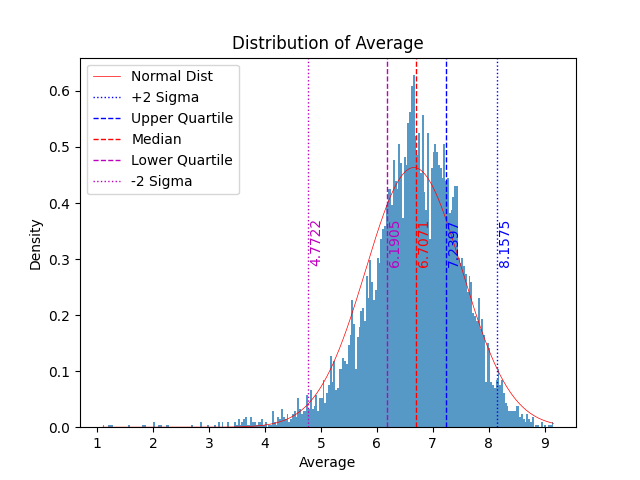
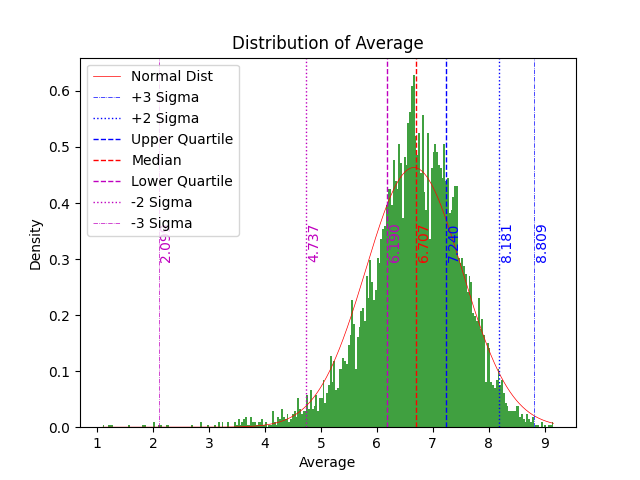
Feat: Vote Dist

diff --git a/stat.py b/stat.py
@@ -24,44 +24,62 @@ Task:
 
 ifile = "data\\sub.csv"
 pre = "data\\stat\\"
+_P3S = norm.cdf(3) * 100 # 99.865
+_P2S = norm.cdf(2) * 100 # 97.725
+_P1S = norm.cdf(1) * 100 # 84.135
+_N1S = norm.cdf(-1) * 100 # 15.865
+_N2S = norm.cdf(-2) * 100 # 2.275
+_N3S = norm.cdf(-3) * 100 # 0.135
 
 def analyze(s, name, fname, n, ofile):
     '''
+    params:
     s - series to be analyzed
     name - name of the series
     fname - plt file name (including extension)
     n - number of entries
     ofile - output CSV file object
     '''
-    mean, std, hi, uq, med, lq, lo, p2s, n2s = \
+    mean, std, hi, uq, med, lq, lo, p2s, n2s, p3s, n3s = \
         np.mean(s), np.std(s), np.max(s), np.percentile(s, 75), \
         np.median(s), np.percentile(s, 25), np.min(s), \
-        np.percentile(s, 97.5), np.percentile(s, 2.5)
+        np.percentile(s, _P2S), np.percentile(s, _N2S), \
+        np.percentile(s, _P3S), np.percentile(s, _N3S)
     ofile.write("Average of %s,%.4f\n" % (name, mean))
     ofile.write("Standard Deviation of %s,%.4f\n" % (name, std))
-    ofile.write("Maximum of %s,%.4f\n" % (name, hi))
-    ofile.write("+2sigma of %s,%.4f\n" % (name, p2s))
-    ofile.write("Upper Quartile of %s,%.4f\n" % (name, uq))
-    ofile.write("Median of %s,%.4f\n" % (name, med))
-    ofile.write("Lower Quartile of %s,%.4f\n" % (name, lq))
-    ofile.write("-2sigma of %s,%.4f\n" % (name, n2s))
-    ofile.write("Minimum of %s,%.4f\n" % (name, lo))
-    plt.hist(s, bins=250, density=True, alpha=.75)
+    ofile.write("95%%CI,%.4f,%.4f\n" % (mean - 2 * std, mean + 2 * std))
+    ofile.write("Extremes,%.4f,%.4f\n" % (lo, hi))
+    ofile.write("±3 Sigma,%.4f,%.4f\n" % (p3s, n3s))
+    ofile.write("1%%-99%%,%.4f,%.4f\n" % (np.percentile(s, 1), np.percentile(s, 99)))
+    ofile.write("±2 Sigma,%.4f,%.4f\n" % (p2s, n2s))
+    ofile.write("5%%-95%%,%.4f,%.4f\n" % (np.percentile(s, 5), np.percentile(s, 95)))
+    ofile.write("10%%-90%%,%.4f,%.4f\n" % (np.percentile(s, 10), np.percentile(s, 90)))
+    ofile.write("15%%-85%%,%.4f,%.4f\n" % (np.percentile(s, 15), np.percentile(s, 85)))
+    ofile.write("20%%-80%%,%.4f,%.4f\n" % (np.percentile(s, 20), np.percentile(s, 80)))
+    ofile.write("Quartiles,%.4f,%.4f\n" % (lq, uq))
+    ofile.write("30%%-70%%,%.4f,%.4f\n" % (np.percentile(s, 30), np.percentile(s, 70)))
+    ofile.write("40%%-60%%,%.4f,%.4f\n" % (np.percentile(s, 40), np.percentile(s, 60)))
+    ofile.write("Median,%.4f\n" % med)
+    plt.hist(s, bins=250, density=True, alpha=.75, color='g')
     x = np.linspace(lo, hi, 1000)
     plt.plot(x, norm.pdf(x, mean, std), color='r', linewidth=.5)
+    plt.axvline(p3s, color='b', linestyle='dashdot', linewidth=.5)
     plt.axvline(p2s, color='b', linestyle='dotted', linewidth=1)
     plt.axvline(uq, color='b', linestyle='dashed', linewidth=1)
     plt.axvline(med, color='r', linestyle='dashed', linewidth=1)
     plt.axvline(lq, color='m', linestyle='dashed', linewidth=1)
     plt.axvline(n2s, color='m', linestyle='dotted', linewidth=1)
-    x_diff = (hi - lo) / 500
-    mid_y = plt.ylim()[1] / 2
-    plt.text(p2s + x_diff, mid_y, f"{p2s:.4f}", rotation=90, va='center', color='b')
-    plt.text(uq + x_diff, mid_y, f"{uq:.4f}", rotation=90, va='center', color='b')
-    plt.text(med + x_diff, mid_y, f"{med:.4f}", rotation=90, va='center', color='r')
-    plt.text(lq + x_diff, mid_y, f"{lq:.4f}", rotation=90, va='center', color='m')
-    plt.text(n2s + x_diff, mid_y, f"{n2s:.4f}", rotation=90, va='center', color='m')
-    plt.legend(["Normal Dist", "+2 Sigma", "Upper Quartile", "Median", "Lower Quartile", "-2 Sigma"])
+    plt.axvline(n3s, color='m', linestyle='dashdot', linewidth=.5)
+    x_diff = (hi - lo) / 500 # absolute dx: 1/500 of the plot width
+    mid_y = plt.ylim()[1] / 2 # absolute y: middle of the plot height
+    plt.text(p3s + x_diff, mid_y, f"{p3s:.3f}", rotation=90, va='center', color='b')
+    plt.text(p2s + x_diff, mid_y, f"{p2s:.3f}", rotation=90, va='center', color='b')
+    plt.text(uq + x_diff, mid_y, f"{uq:.3f}", rotation=90, va='center', color='b')
+    plt.text(med + x_diff, mid_y, f"{med:.3f}", rotation=90, va='center', color='r')
+    plt.text(lq + x_diff, mid_y, f"{lq:.3f}", rotation=90, va='center', color='m')
+    plt.text(n2s + x_diff, mid_y, f"{n2s:.3f}", rotation=90, va='center', color='m')
+    plt.text(n3s + x_diff, mid_y, f"{n3s:.3f}", rotation=90, va='center', color='m')
+    plt.legend(["Normal Dist", "+3 Sigma", "+2 Sigma", "Upper Quartile", "Median", "Lower Quartile", "-2 Sigma", "-3 Sigma"])
     plt.title("Distribution of %s" % name)
     plt.xlabel(name)
     plt.ylabel("Density")
@@ -70,14 +88,63 @@ def analyze(s, name, fname, n, ofile):
     ofile.write("\n")
 
 def analyze_exp(s, name, fname, n, ofile):
-    pass
+    '''
+    basically same as analyze(), but exponential distribution-like
+    params:
+    s - series to be analyzed
+    name - name of the series
+    fname - plt file name (including extension)
+    n - number of entries
+    ofile - output CSV file object
+    '''
+    mean, std, hi, uq, med, lq, lo, p2s, n2s, p3s, n3s = \
+        np.mean(s), np.std(s), np.max(s), np.percentile(s, 75), \
+        np.median(s), np.percentile(s, 25), np.min(s), \
+        np.percentile(s, _P2S), np.percentile(s, _N2S), \
+        np.percentile(s, _P3S), np.percentile(s, _N3S)
+    ofile.write("Average of %s,%.4f\n" % (name, mean))
+    ofile.write("Standard Deviation of %s,%.4f\n" % (name, std))
+    ofile.write("Extremes,%.0f,%.0f\n" % (lo, hi))
+    ofile.write("±3 Sigma,%.0f,%.0f\n" % (p3s, n3s))
+    ofile.write("1%%-99%%,%.0f,%.0f\n" % (np.percentile(s, 1), np.percentile(s, 99)))
+    ofile.write("±2 Sigma,%.0f,%.0f\n" % (p2s, n2s))
+    ofile.write("5%%-95%%,%.0f,%.0f\n" % (np.percentile(s, 5), np.percentile(s, 95)))
+    ofile.write("10%%-90%%,%.0f,%.0f\n" % (np.percentile(s, 10), np.percentile(s, 90)))
+    ofile.write("15%%-85%%,%.0f,%.0f\n" % (np.percentile(s, 15), np.percentile(s, 85)))
+    ofile.write("20%%-80%%,%.0f,%.0f\n" % (np.percentile(s, 20), np.percentile(s, 80)))
+    ofile.write("Quartiles,%.0f,%.0f\n" % (lq, uq))
+    ofile.write("30%%-70%%,%.0f,%.0f\n" % (np.percentile(s, 30), np.percentile(s, 70)))
+    ofile.write("40%%-60%%,%.0f,%.0f\n" % (np.percentile(s, 40), np.percentile(s, 60)))
+    ofile.write("Median,%.0f\n" % med)
+    plt.hist(s, bins=500, density=True, alpha=.75, color='g')
+    plt.yscale('log') # x-log(y)
+    plt.axvline(p3s, color='b', linestyle='dashdot', linewidth=.5)
+    plt.axvline(p2s, color='b', linestyle='dotted', linewidth=1)
+    plt.axvline(uq, color='b', linestyle='dashed', linewidth=1)
+    plt.axvline(med, color='r', linestyle='dashed', linewidth=1)
+    plt.axvline(lq, color='m', linestyle='dashed', linewidth=1)
+    x_diff = (hi - lo) / 500 
+    mid_y = plt.ylim()[1] / 100
+    plt.text(p3s + x_diff, mid_y, f"{p3s:.0f}", rotation=90, va='center', color='b')
+    plt.text(p2s + x_diff, mid_y, f"{p2s:.0f}", rotation=90, va='center', color='b')
+    plt.text(uq + x_diff, mid_y, f"{uq:.0f}", rotation=90, va='center', color='b')
+    plt.text(med + x_diff, mid_y, f"{med:.0f}", rotation=90, va='center', color='r')
+    plt.legend(["+3 Sigma", "+2 Sigma", "Upper Quartile", "Median", "Lower Quartile"])
+    plt.title("Distribution of %s" % name)
+    plt.xlabel(name)
+    plt.ylabel("Density")
+    plt.savefig(pre + fname)
+    plt.clf()
+    ofile.write("\n")
+
 
 def main():
     df = pd.read_csv(ifile)
     df = df.dropna()
     n = len(df)
     ofile = open(pre + "stat.csv", "w")
-    ofile.write("Entries,%d\n\n" % n)
+    ofile.write("Entries,%d\n" % n)
+    ofile.write("Total Votes,%d\n\n" % df['vote'].sum())
 
     # avg => data/stat/avg.png; negative skew (avg < med)
     avg = df['avg'].values.tolist()
@@ -86,8 +153,8 @@ def main():
     std = df['std'].values.tolist()
     analyze(std, "Standard Deviation", "std.png", n, ofile)
     # vote => data/stat/vote.png; exponential distribution
-    # vote = df['vote'].values.tolist()
-    # analyze_exp(vote, "Votes", "vote.png", n, ofile)
+    vote = df['vote'].values.tolist()
+    analyze_exp(vote, "Votes", "vote.png", n, ofile)
     ofile.close()
 
 if __name__ == '__main__':
